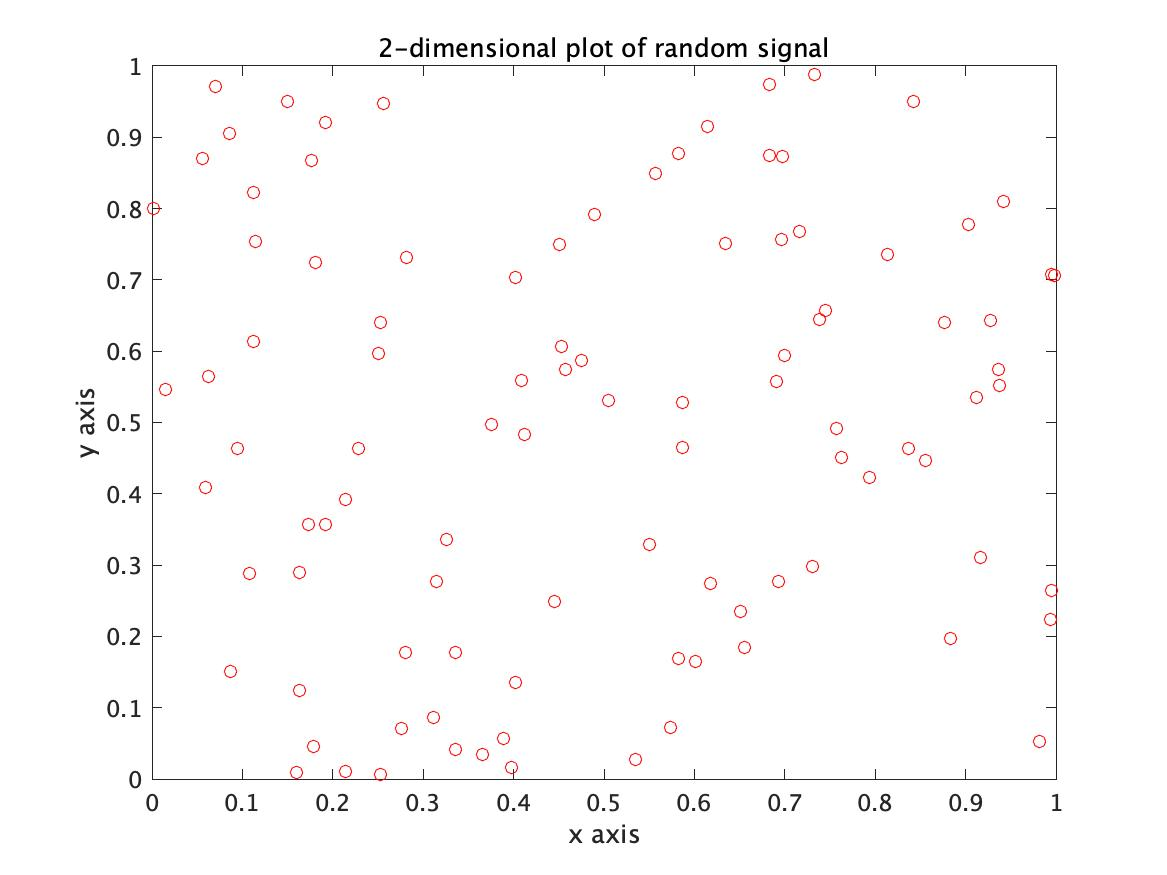
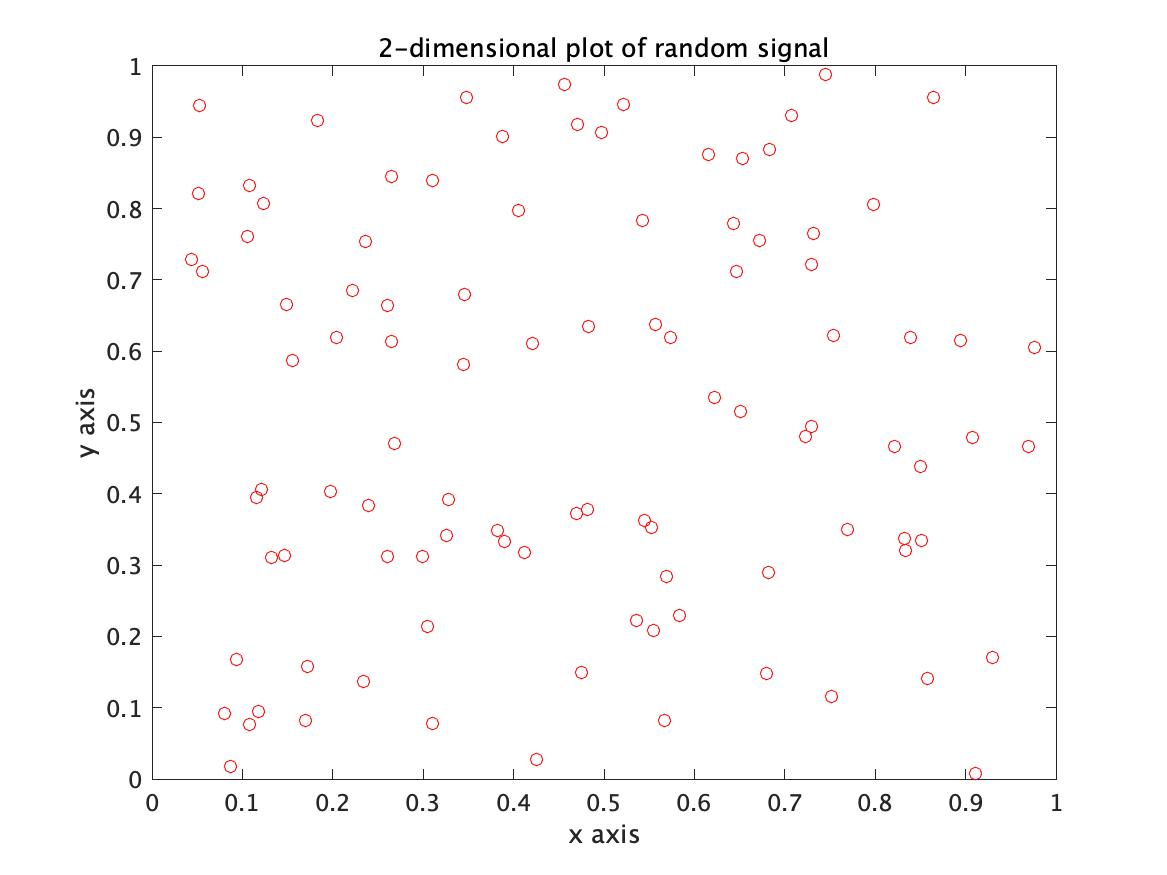
第二回課題終了

diff --git a/2/kadai2_2.m b/2/kadai2_2.m
@@ -1,0 +1,38 @@
+clear all;
+close all;
+
+rng('shuffle')
+
+NUM = 300;
+R = 5;
+NOISE_SIZE = 0.3;
+
+plot(R*cos(2*pi*(0:0.01:1)), R*sin(2*pi*(0:0.01:1)), 'k')
+axis square
+axis([-10, 10, -10, 10])
+hold on
+x = rand(NUM, 1)*20-10;
+y = rand(NUM, 1)*20-10;
+[x, y] = rainFilter(x, y, R);
+plot(x, y, 'ro')
+hold on
+[x, y] = addNoise(x, y, NOISE_SIZE);
+plot(x, y, 'bo')
+saveas(gcf, 'graphs/kadai2_2.jpg')
+
+
+function [filtered_x, filtered_y] = rainFilter(x, y, r)
+  position = x+y*1i;
+  filtered_position = abs(position) > r;
+  filtered_x = x(filtered_position);
+  filtered_y = y(filtered_position);
+end
+
+function [added_x, added_y] = addNoise(x, y, n_size)
+  sz = size(x);
+  arg = 2*pi*rand(sz(1), 1);
+  r = n_size*rand(sz(1), 1);
+  added_x = x + r.*cos(arg);
+  added_y = y + r.*sin(arg);
+end
+

diff --git a/2/ex_7.m b/2/ex_7.m
@@ -1,0 +1,15 @@
+clear all;
+close all;
+
+x = randn(100, 1);
+y = randn(100, 1);
+for k = 1:100
+  if k >= 30 && k <= 70
+    plot(x(k), y(k), 'ro')
+  else
+    plot(x(k), y(k), 'bo')
+  end
+  axis([-5, 5, -5, 5])
+  M(k) = getframe(gca);
+end
+movie(M, 1)

diff --git a/2/ex_1.m b/2/ex_1.m
@@ -1,0 +1,18 @@
+close all;
+clear all;
+
+rng('shuffle');
+
+y = randn(10000, 1);
+t = linspace(0, 1, 10000);
+x = min(y):0.01:max(y);
+
+figure(1);
+plot(t, y);
+grid on
+
+figure(2);
+hist(y, x);
+grid on
+
+

diff --git a/2/ex_8.m b/2/ex_8.m
@@ -1,0 +1,13 @@
+clear all;
+close all;
+
+x = randn(100, 1);
+y = randn(100, 1);
+k = 1;
+while k <= 100
+  plot(x(k),y(k),'ro')
+  axis([-5,5,-5,5])
+  M(k) = getframe(gca);
+  k = k+1;
+end
+movie(M, 1)

diff --git a/2/ex_3.m b/2/ex_3.m
@@ -1,0 +1,12 @@
+clear all;
+close all;
+
+rng('shuffle')
+
+x = 0:0.1:20;
+y = sin(2*pi/20*x);
+noise = randn(1, 201)*0.1;
+
+grid on
+figure(1)
+plot(x, y+noise)

diff --git a/2/ex_5.m b/2/ex_5.m
@@ -1,0 +1,11 @@
+clear all;
+close all;
+
+rng('shuffle')
+
+x = randn(1000, 1)*sqrt(3)+5;
+y = randn(1000, 1)*sqrt(5)+5;
+
+figure(1)
+plot(x, y, 'ro')
+grid on

diff --git a/2/kadai2_1.m b/2/kadai2_1.m
@@ -1,0 +1,9 @@
+clear all;
+close all;
+
+rng('shuffle')
+
+x = rand(300, 1)*20-10;
+y = rand(300, 1)*20-10;
+plot(x, y, 'ro')
+saveas(gcf,'graphs/kadai2_1.jpg')

diff --git a/2/ex_2.m b/2/ex_2.m
@@ -1,0 +1,12 @@
+clear all;
+close all;
+
+rng('shuffle')
+
+x = rand(10000, 1);
+y = sin(2*pi*x);
+span = -1:0.01:1;
+
+figure(1)
+hist(y, span)
+grid on

diff --git a/2/ex_4.m b/2/ex_4.m
@@ -1,0 +1,10 @@
+clear all;
+close all;
+
+rng('shuffle')
+
+x = rand(100, 1)*10;
+y = rand(100, 1)*10;
+
+plot(x, y, 'ro')
+axis([0, 10, 0, 10])

diff --git a/2/ex_6.m b/2/ex_6.m
@@ -1,0 +1,3 @@
+clear all;
+close all;
+
